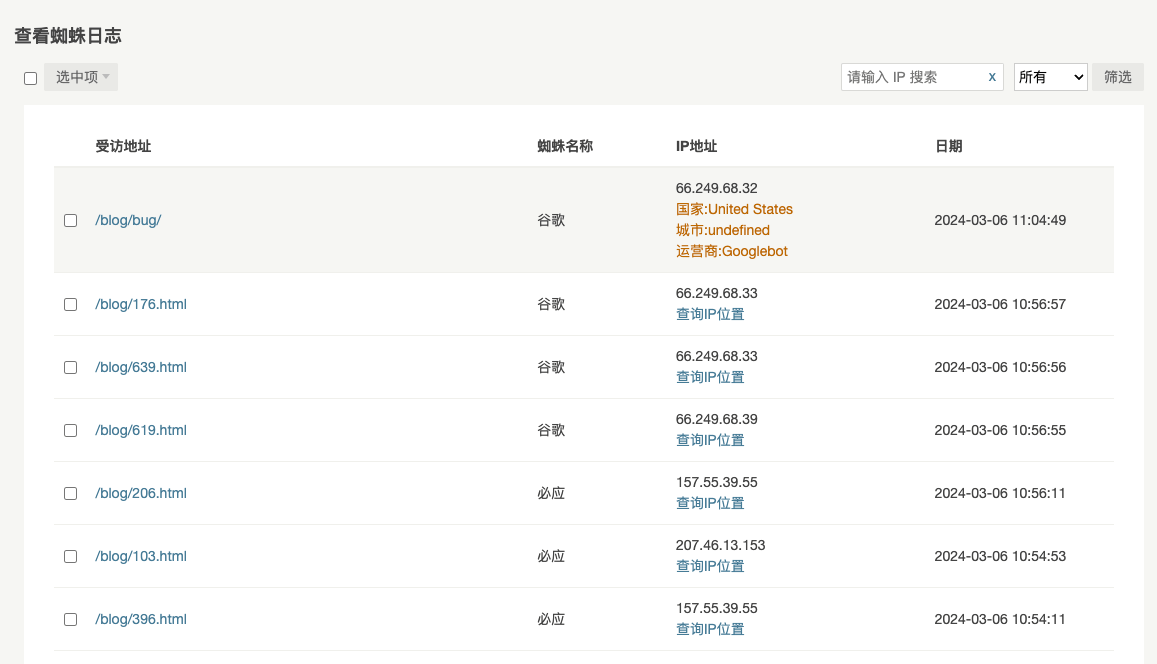
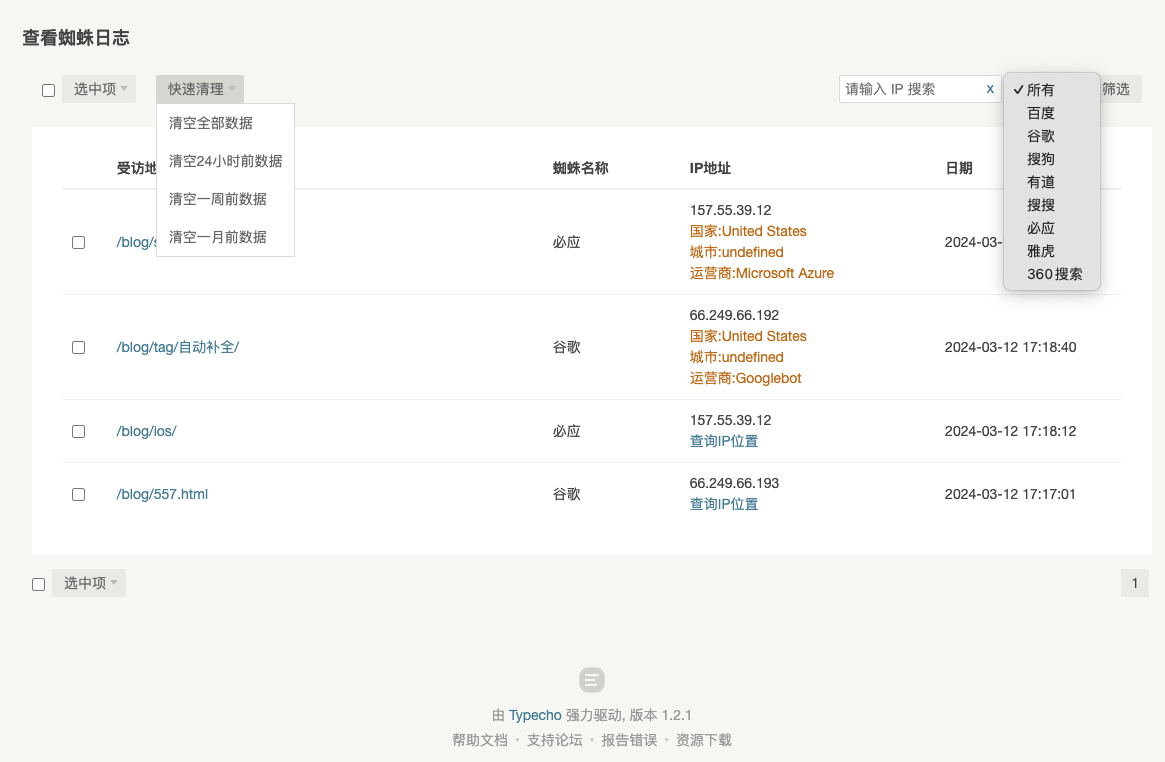
增加预览

diff --git a/README.md b/README.md
@@ -6,6 +6,10 @@ Typecho的蜘蛛访问记录插件. Spider Tracker plugin for Typecho
 
 下载仓库代码，将文件夹命名为`SpiderTracker`上传到Typecho的`usr/plugins`，后台启用插件即可。
 
+## 反馈
+
+如果有问题可以在该github仓库直接提issue或者在我博客文章下留言即可：[https://ddceo.com/blog/1261.html](https://ddceo.com/blog/1261.html)
+
 ## 预览
 
 ![](./pre1.png)
@@ -14,9 +18,8 @@ Typecho的蜘蛛访问记录插件. Spider Tracker plugin for Typecho
 
 ### 历史背景
 
-基于[RobotsPlusPlus](https://xiamp.net/archives/typecho-spider-visit-record-plugin-enhanced-enhanced-version-RobotsPlusPlus.html)修改。整合原`RobotsPlus`功能。
+本插件原是`Shion`创建的`Robots`、之后`YoviSun`升级为`RobotsPlus`，再到后面的`RYan`升级`RobotsPlusPlus `，无限循环，却没有一个版本控制的概念，搜了github找不到一个库，散落在互联网的某个角落，所以创建该库并重新整理规划开发。
 
-本插件原是`Shion`创建的`Robots`、之后`YoviSun`升级为`RobotsPlus`，再到后面的`RYan`升级`RobotsPlusPlus`，无限循环，却没有一个版本控制的概念，搜了github找不到一个库，散落在互联网的某个角落，所以创建该库并重新整理命名。
 
 ### 优化功能
 
@@ -25,6 +28,12 @@ Typecho的蜘蛛访问记录插件. Spider Tracker plugin for Typecho
 * 修改ip查询功能，增加设置项
 * ip查询方式修改为单项查询，避免批量数据封号问题
 * 增加头条搜索、Yandex搜索、神马搜索记录
+* 增加快捷清理功能，可快速选择清理范围
+
+### 鸣谢
+
+* [RobotsPlus](https://www.yovisun.com/archive/typecho-plugin-robotsplus.html)
+* [RobotsPlusPlus](https://xiamp.net/archives/typecho-spider-visit-record-plugin-enhanced-enhanced-version-RobotsPlusPlus.html)
 
 ## 博客链接
 
